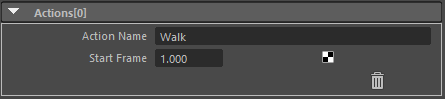
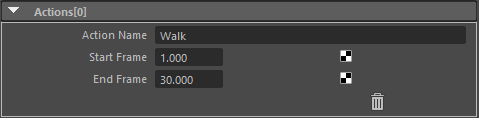
[Actions] EndFrameを追記

Changed region(s): [[0.0, 0.0606, 1.0, 1.0], [0.0, 0.0, 1.0, 0.0303]]

diff --git a/docs_reST/source/jp/sec02_howToUse/attr_Action.rst b/docs_reST/source/jp/sec02_howToUse/attr_Action.rst
@@ -3,13 +3,11 @@
 Action List
 ###########
 
-
 .. contents:: このページの目次:
    :depth: 3
    :local:
 
 ++++
-
 
 概要
 *****
@@ -17,12 +15,12 @@ Action List
 * このアトリビュートは、直接ビューに影響を与えることはありません
 * PythonやMELのスクリプトと組み合わせ、表示をカスタマイズすることができます
 
-  * ゲームのアニメーション作成時に使われることが多いアトリビュートです
+  * ゲームのアニメーションクリップ作成時に使われることが多いアトリビュートです
+
+.. seealso::
   * 具体的な使い方は、[:ref:`sample_Action_jp`]を参照してください
 
-
 ++++
-
 
 アトリビュート
 **************
@@ -38,13 +36,11 @@ Action List
 
 ++++
 
-
 アトリビュート(Actions[*]枠内)
 ******************************
 
 .. figure:: ../../_images/actionAttr2.png
    :alt: actionAttr2
-
 
 Action Name
 ===========
@@ -58,19 +54,10 @@ Start Frame
 
 * アクションのスタートフレームを入力します
 
-  .. note::
-     * ``End Frame`` アトリビュートが必要であれば、 `Issues`_ に報告をお願いします
-     * (著者は、スクリプトで制御できると考えています ( :ref:`sample_Action_jp` ))
+End Frame
+===========
 
-       .. code-block:: python
-
-          # basic
-          cur_actions_end_frame = next_actions_start_frame - 1
-
-          # has margin frame? (各アクションの間にマージンが入りますか?)
-          cur_actions_end_frame = next_actions_start_frame - margin_time - 1
-
-
+* アクションのエンドフレームを入力します
 
 "ゴミ箱"アイコン
 ================
@@ -79,4 +66,3 @@ Start Frame
 
 
 .. _Issues: https://github.com/PluginMania/RenderOverrideForMaya/issues
-

diff --git a/docs_reST/source/en/sec02_howToUse/attr_Action.rst b/docs_reST/source/en/sec02_howToUse/attr_Action.rst
@@ -3,13 +3,11 @@
 Action List
 ###########
 
-
 .. contents:: Contents of this page:
    :depth: 3
    :local:
 
 ++++
-
 
 Overview
 ********
@@ -17,12 +15,12 @@ Overview
 * This attribute does not directly affect the view
 * Can be combined with Python or MEL scripts to customize the view
 
-  * This Attribute is often used when creating animations for games.
+  * This attribute is often used when creating animation clips for games.
+
+.. seealso::
   * See [:ref:`sample_Action_en`] for specific usage
 
-
 ++++
-
 
 Attributes
 **********
@@ -37,7 +35,6 @@ Attributes
 * Add an Action item
 
 ++++
-
 
 Attributes (Actions[*] in frame)
 ********************************
@@ -58,19 +55,10 @@ Start Frame
 
 * Enter the start frame of the action
 
-  .. note::
-     * If you need ``End Frame`` attributes, please report them in `Issues`_.
-     * (The author thinks it can be controlled by a script ( :ref:`sample_Action_en` ))
+End Frame
+===========
 
-       .. code-block:: python
-
-          # basic
-          cur_actions_end_frame = next_actions_start_frame - 1
-
-          # has margin frame?
-          cur_actions_end_frame = next_actions_start_frame - margin_time - 1
-
-
+* Enter the end frame of the action
 
 "Trash" icon
 ============
@@ -79,4 +67,3 @@ Start Frame
 
 
 .. _Issues: https://github.com/PluginMania/RenderOverrideForMaya/issues
-

diff --git a/docs_reST/source/en/sec03_examplesOfUse/sample_Action.rst b/docs_reST/source/en/sec03_examplesOfUse/sample_Action.rst
@@ -43,8 +43,7 @@ Process
   .. figure:: ../../_images/sample_actions_attrs.png
      :alt: ActionsAttr
 
-     Enter the action name and start frame number
-
+     Enter ActionName/ StartFrame/ EndFrame
 
 2. Preparing Python Scripts
 ===========================
@@ -52,10 +51,9 @@ Process
 * This time, we will use the ``renderoverride_actions.py`` provided by the plugin
 
   * The Python files are installed in ``C:/ProgramData/Autodesk/ApplicationPlugins/RenderOverride/Contents/plug-ins/[OS-MAYA VERSION]/python/``.
-  * The ``PYTHONPATH`` is passed when RenderOverride is loaded, so you can use it right away!
+  * The ``PYTHONPATH`` is passed when RenderOverride is loaded, so you can use it right away.
 
     * (If you want to run your own Python code, it is recommended that you use ``PYTHONPATH`` or similar to pass it through.)
-
 
 3. Setting Text Attributes
 ==========================
@@ -75,7 +73,6 @@ Process
 
      .. figure:: ../../_images/sample_actions_textRightClicked.png
         :alt: TextRightClicked
-
 
 4. Check display
 ================

diff --git a/docs_reST/source/jp/sec03_examplesOfUse/sample_Action.rst b/docs_reST/source/jp/sec03_examplesOfUse/sample_Action.rst
@@ -43,8 +43,7 @@ Actions (外部Pythonファイルの利用)
   .. figure:: ../../_images/sample_actions_attrs.png
      :alt: ActionsAttr
 
-     アクション名と開始フレーム番号を入力します
-
+     アクション名/ 開始フレーム/ 終了フレームを入力します
 
 2. Pythonスクリプトの準備
 =========================
@@ -76,7 +75,6 @@ Actions (外部Pythonファイルの利用)
      .. figure:: ../../_images/sample_actions_textRightClicked.png
         :alt: TextRightClicked
 
-
 4. 表示の確認
 =============
 
@@ -85,7 +83,6 @@ Actions (外部Pythonファイルの利用)
   .. figure:: ../../_gif/renderoverride_actionsSampleResult.gif
      :scale: 70%
      :alt: ActionsResult
-
 
 ++++
 
